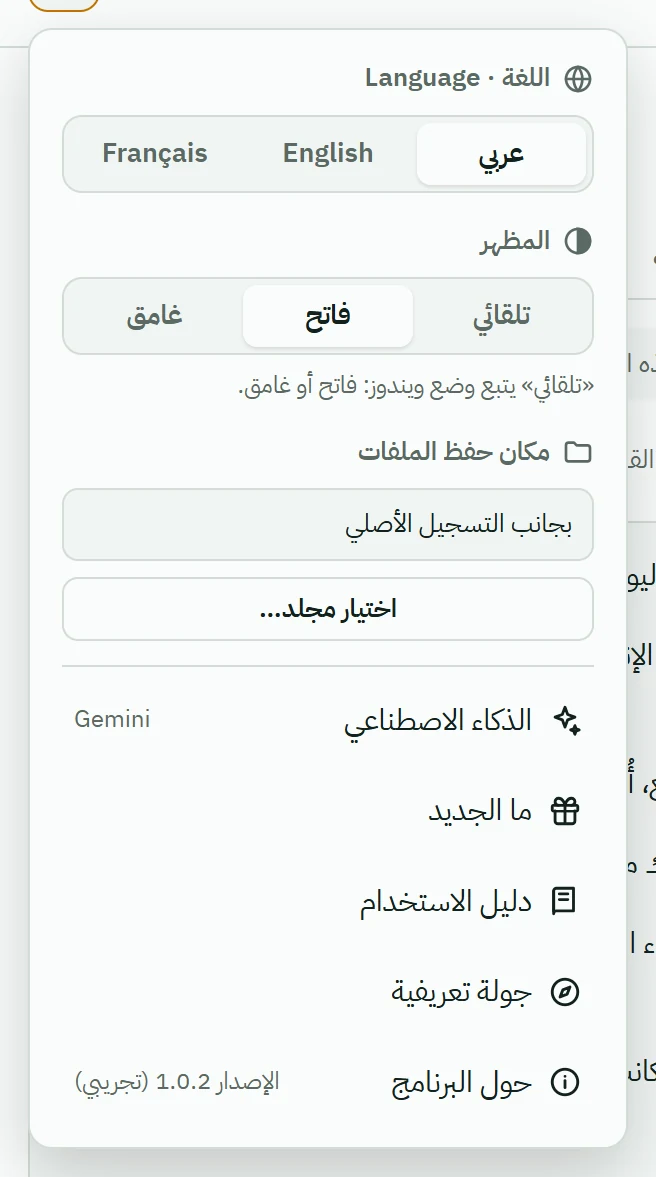
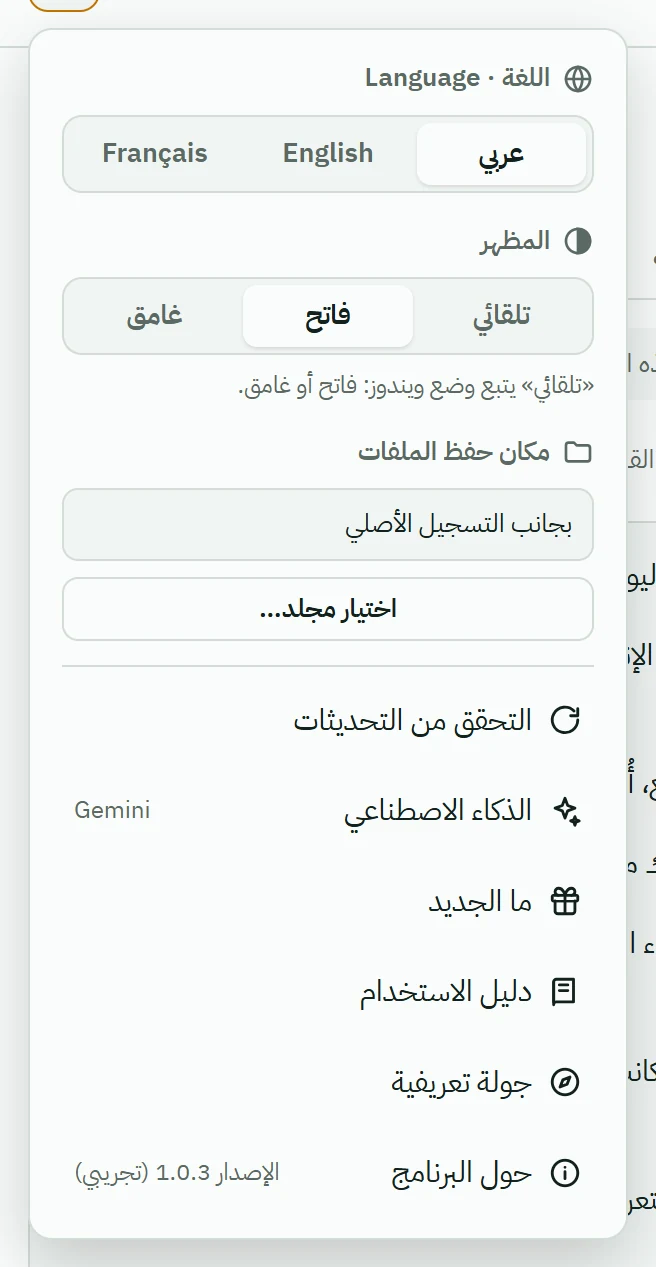
Add files via upload

diff --git a/docs/guide.html b/docs/guide.html
@@ -172,7 +172,7 @@
           "<b>مكان حفظ الملفات</b>: بجانب التسجيل الأصلي، أو اضغط «اختيار مجلد…» لحفظ كل الملفات الجديدة في مجلد واحد.",
           "<b>الذكاء الاصطناعي</b>: ربط مفتاحك (Gemini أو ChatGPT أو Claude) واختيار النموذج، وبجانبه اسم الخدمة المربوطة.",
           "<b>ما الجديد</b> يعرض مقاطع قصيرة عن ميزات الإصدار، و<b>دليل الاستخدام</b> يفتح هذه الصفحة، و<b>جولة تعريفية</b> تعيد الجولة.",
-          "عند صدور إصدار جديد تظهر نقطة على ⚙ وتنبيه «يتوفر إصدار جديد»: اضغط «حدّث الآن». مكتبتك وإعداداتك تبقى كما هي."
+          "عند صدور إصدار جديد تظهر نقطة على ⚙ وتنبيه «يتوفر إصدار جديد»: اضغط «حدّث الآن». مكتبتك وإعداداتك تبقى كما هي. ويبحث البرنامج عن التحديثات عند فتحه وكل 6 ساعات، ويمكنك البحث بنفسك من <b>«التحقق من التحديثات»</b>."
         ], [], []],
         ["tips", "نصائح لأفضل نتيجة", "", "", [
           "ضع الهاتف <b>قريباً من المحاضر</b> قدر الإمكان، فالمسافة والضجيج أكثر ما يقلّل الدقة.",
@@ -187,6 +187,7 @@
           "<b>لم يُحدَّث ملف Word</b>: أغلق الملف في Word ثم اضغط «تحديث الملفات».",
           "<b>توقّف الترتيب أو الترجمة التلقائية</b>: يكتب البرنامج السبب تحت الزر. «طلبات كثيرة» انتظر دقيقة، و«انتهت الحصة اليومية» حاول غداً، و«الخدمة مزدحمة» حاول بعد قليل. الأجزاء المترجمة محفوظة، والمحاولة التالية تكمل من حيث توقف.",
           "<b>لا تظهر الترجمة في المشغّل</b>: شغّل نسخة <code>… - Arabic subtitles.mkv</code> المدموجة، أو اختر الترجمة من قائمة Subtitle في VLC، وتأكد أن ملف SRT بجانب الفيديو ويبدأ اسمه باسم الفيديو.",
+          "<b>لا يصل التحديث</b>: اضغط ⚙ ← «التحقق من التحديثات». إن قال «تعذّر الوصول إلى GitHub» فقد يمنعه برنامج حماية أو شبكة عمل؛ نزّل أحدث إصدار من الموقع وثبّته فوق القديم، ومكتبتك تبقى كما هي.",
           "لأي مشكلة أخرى: <a href=\"mailto:nasikh.app@gmail.com\">nasikh.app@gmail.com</a>."
         ], [], []]
       ]
@@ -283,7 +284,7 @@
           "<b>Where files are saved</b>: next to the original recording, or click “Choose folder…” to save every new file in one folder.",
           "<b>AI</b>: link your key (Gemini, ChatGPT or Claude) and pick the model; the linked service is shown next to it.",
           "<b>What's new</b> shows short clips of the version's features, <b>User guide</b> opens this page, and <b>Quick tour</b> replays the tour.",
-          "When a new version is out, a dot appears on ⚙ with an “A new version is available” notice: click “Update now”. Your library and settings stay as they are."
+          "When a new version is out, a dot appears on ⚙ with an “A new version is available” notice: click “Update now”. Your library and settings stay as they are. The program looks for updates when it opens and every 6 hours, and you can look yourself with <b>“Check for updates”</b>."
         ], [], []],
         ["tips", "Tips for the best result", "", "", [
           "Put the phone <b>close to the speaker</b>: distance and noise are what lower accuracy the most.",
@@ -298,6 +299,7 @@
           "<b>The Word file was not updated</b>: close it in Word, then click “Update files”.",
           "<b>Automatic organizing or translating stopped</b>: the reason is written under the button. “Too many requests”: wait a minute; “daily quota used up”: try tomorrow; “service crowded”: try again shortly. Translated parts are saved, and the next try continues where it stopped.",
           "<b>The subtitles don't show in the player</b>: play the <code>… - Arabic subtitles.mkv</code> copy, or pick the subtitles in VLC's Subtitle menu, and check that the SRT file sits next to the video with a name starting like the video's.",
+          "<b>The update doesn't arrive</b>: click ⚙ → “Check for updates”. If it says GitHub couldn't be reached, an antivirus or a work network may be blocking it: download the latest version from the website and install it over the old one; your library stays as it is.",
           "For anything else: <a href=\"mailto:nasikh.app@gmail.com\">nasikh.app@gmail.com</a>."
         ], [], []]
       ]
@@ -394,7 +396,7 @@
           "<b>Emplacement des fichiers</b> : à côté de l'enregistrement d'origine, ou cliquez sur « Choisir un dossier… » pour enregistrer tous les nouveaux fichiers au même endroit.",
           "<b>IA</b> : relier votre clé (Gemini, ChatGPT ou Claude) et choisir le modèle ; le service relié est indiqué à côté.",
           "<b>Nouveautés</b> montre de courtes vidéos des fonctions de la version, <b>Guide d'utilisation</b> ouvre cette page, et <b>Visite guidée</b> relance la visite.",
-          "Quand une nouvelle version sort, un point apparaît sur ⚙ avec l'avis « Une nouvelle version est disponible » : cliquez sur « Mettre à jour ». Votre bibliothèque et vos réglages restent tels quels."
+          "Quand une nouvelle version sort, un point apparaît sur ⚙ avec l'avis « Une nouvelle version est disponible » : cliquez sur « Mettre à jour ». Votre bibliothèque et vos réglages restent tels quels. Le programme cherche les mises à jour à l'ouverture et toutes les 6 heures, et vous pouvez chercher vous-même avec <b>« Rechercher des mises à jour »</b>."
         ], [], []],
         ["tips", "Conseils pour un meilleur résultat", "", "", [
           "Placez le téléphone <b>près de l'orateur</b> : la distance et le bruit sont ce qui fait le plus baisser la précision.",
@@ -409,6 +411,7 @@
           "<b>Le Word n'a pas été mis à jour</b> : fermez-le dans Word, puis cliquez sur « Mettre à jour les fichiers ».",
           "<b>L'organisation ou la traduction automatique s'est arrêtée</b> : la raison est écrite sous le bouton. « Trop de requêtes » : attendez une minute ; « quota quotidien épuisé » : réessayez demain ; « service saturé » : réessayez bientôt. Les parties traduites sont enregistrées, et l'essai suivant reprend là où il s'est arrêté.",
           "<b>Les sous-titres ne s'affichent pas dans le lecteur</b> : lancez la copie <code>… - French subtitles.mkv</code>, ou choisissez les sous-titres dans le menu Sous-titres de VLC, et vérifiez que le fichier SRT est à côté de la vidéo et que son nom commence comme celui de la vidéo.",
+          "<b>La mise à jour n'arrive pas</b> : cliquez sur ⚙ → « Rechercher des mises à jour ». S'il est impossible de joindre GitHub, un antivirus ou un réseau d'entreprise le bloque peut-être : téléchargez la dernière version sur le site et installez-la par-dessus l'ancienne ; votre bibliothèque reste intacte.",
           "Pour tout le reste : <a href=\"mailto:nasikh.app@gmail.com\">nasikh.app@gmail.com</a>."
         ], [], []]
       ]
